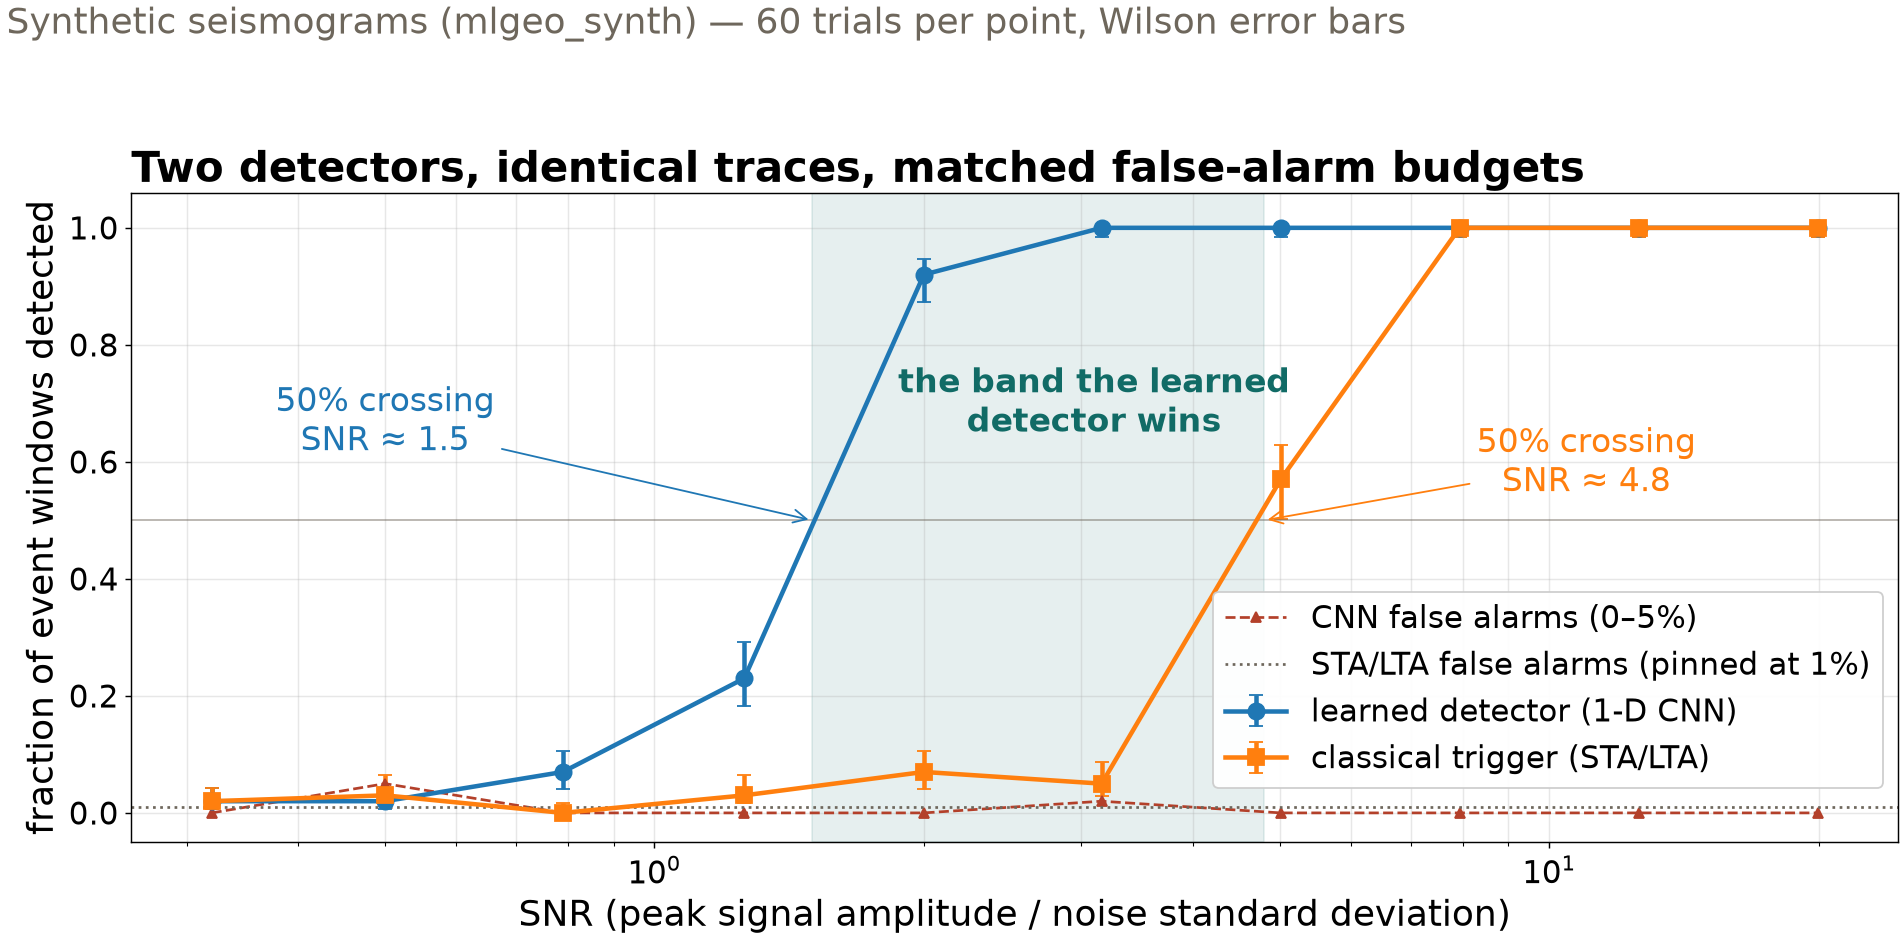
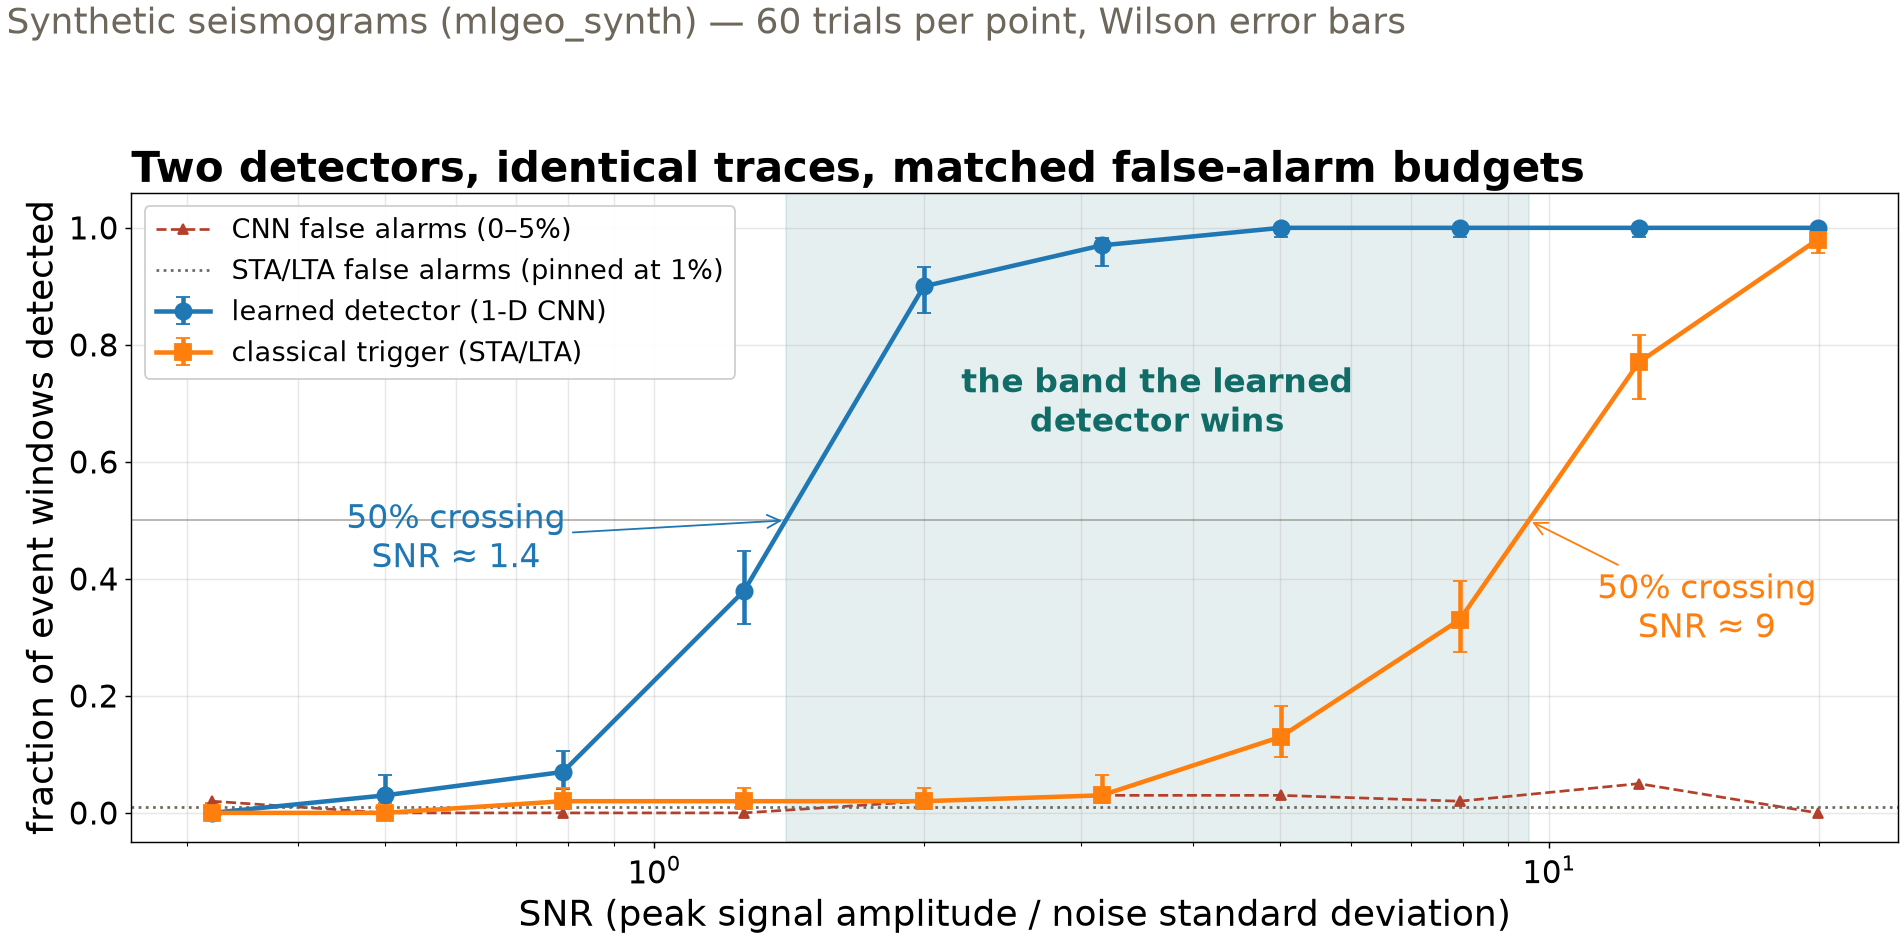
Lecture 22 follows the new 4.3: detection-floor figure from the new sweep (1.4 vs 9), miniPNW slide sourced to commit 4b4775c, task list updated

diff --git a/book/slides/2026/lec22_convolution_detector.html b/book/slides/2026/lec22_convolution_detector.html
@@ -608,10 +608,10 @@
 <h2>Reality check 1: same traces, classical opponent</h2>
 <img data-src="figs/mlgeo_4.3_CNN/detection_floor_slide.png" class="r-stretch">
 <div class="takeaway">
-<p>At matched ~1% false alarms: CNN crosses 50% at SNR ≈ 1.5, the trigger at ≈ 4.8. At SNR 2 the CNN catches 92% of events; STA/LTA catches 7%. Half a decade of SNR is the entire territory the learned detector wins.</p>
+<p>At ~1% false alarms the CNN crosses 50% at SNR ≈ 1.4, STA/LTA at ≈ 9. At SNR 2: 90% of events against 2%.</p>
 </div>
 <aside class="notes">
-<p>The design makes the comparison fair, and each choice is worth naming: identical traces for both detectors; the trigger’s threshold set from noise alone (99th percentile of 600 noise-only windows → 1% false alarms by construction, no peeking at events); CNN false alarms measured at 0–5%, comparable, so the detection curves can be read directly; 60 trials per point with binomial error bars. Three regimes: below SNR ~0.8 both detectors sit at their false-alarm floor — no algorithm rescues a signal buried in noise of the same color; above ~8 both detect everything, and there the classical trigger is the right engineering choice — free to train, impossible to drift. The shaded band is the CNN’s whole case. Whether that band matters is a scientific question, not an architectural one — in seismology it is where most small earthquakes live, which is why learned detectors displaced energy triggers in catalog building (Perol et al.; the pickers that followed). Also in the notebook: template matching, the classical method that beats both at low SNR when the source repeats — narrower question, different tool.</p>
+<p>The design makes the comparison fair, and each choice is worth naming: identical traces for both detectors; the trigger’s threshold set from noise alone (99th percentile of 600 noise-only windows → 1% false alarms by construction, no peeking at events); CNN false alarms measured at 0–5%, comparable, so the detection curves can be read directly; 60 trials per point with binomial error bars. Three regimes: below SNR ~0.8 both detectors sit at their false-alarm floor — no algorithm rescues a signal buried in noise of the same color; at SNR 20 both detect nearly everything, and there the classical trigger is the right engineering choice — free to train, impossible to drift. The shaded band is the CNN’s whole case. Whether that band matters is a scientific question, not an architectural one — in seismology it is where most small earthquakes live, which is why learned detectors displaced energy triggers in catalog building (Perol et al.; the pickers that followed). Also in the notebook: template matching, the classical method that beats both at low SNR when the source repeats — narrower question, different tool.</p>
 <style type="text/css">
         span.MJX_Assistive_MathML {
           position:absolute!important;
@@ -628,7 +628,7 @@
 <h2>Reality check 2: real waveforms, no retraining</h2>
 <img data-src="figs/mlgeo_4.3_CNN/synth_to_real_slide.png" class="r-stretch">
 <div class="takeaway">
-<p>87.9% on synthetic test → 46.8% on real miniPNW: chance. The network flags 93% of real <em>noise</em> windows — it responds to Pacific Northwest microseism noise, not to earthquakes. The gap is the measurement. Real data: miniPNW (Ni et al.&nbsp;2023).</p>
+<p>87.9% on synthetic test → 46.8% on real miniPNW, with 93% of real <em>noise</em> windows flagged. Measured 2026-11-20 (4.3 at commit 4b4775c).</p>
 </div>
 <aside class="notes">
 <p>The uncomfortable question the book insists on asking: every number so far came from the same generator that produced the training data — so score the unchanged detector on real labeled miniPNW waveforms (a few hundred earthquake windows, P pick 7 s in, plus matched pre-event noise windows; preprocessing mirrors training exactly, no threshold moved, no bandpass chosen to fix things afterward). Left panel: balanced accuracy collapses 41 points to chance. Right panel is the diagnosis: detection is <em>highest</em> (99%) in the lowest-SNR quartile — where the window is mostly noise — and the whole curve is indistinguishable from the 93% false-alarm line. The network is not responding to earthquakes at all: it learned “synthetic event vs the one synthetic noise model,” and real nonstationary, microseism-dominated noise resembles neither, so nearly everything triggers. Name the concept: <strong>distribution shift</strong> — train and deployment data drawn from different distributions — and this is Geirhos’s shortcut learning measured by us. The sentence to leave in the room: a model validated only on synthetic data has not been validated. Closing the gap takes real data on the training side (fine-tune on miniPNW, or physics-informed noise from 2.10) — that path is the notebook’s, and 4.6 continues it.</p>
@@ -865,16 +865,16 @@ Rules: run all code with `pixi run python`, on the CPU, with less than 10 minute
 <section id="now-measure-it-yourself-open-4.3" class="slide level2">
 <h2>Now measure it yourself — open 4.3</h2>
 <ol type="1">
-<li><code>pixi run jupyter lab</code> → <code>mlgeo_4.3_CNN.ipynb</code>: run the convolution and LeNet warm-up quickly</li>
+<li><code>mlgeo_4.3_CNN.ipynb</code>: sections 1–2, with the two Your-turn cells (a kernel by hand, the weights of a layer)</li>
 <li>Run the detection-floor sweep; estimate both 50% crossings from the printed table</li>
 <li>Retrain with only 2 epochs, rerun the sweep: whose floor moves — the CNN’s or STA/LTA’s, and why?</li>
-<li>Run the miniPNW reality check; report the balanced-accuracy gap as measured</li>
+<li>Real seismograms: the same detector on miniPNW is Homework_DL</li>
 </ol>
 <div class="dim">
 <p>PyTorch names live here: <code>nn.Conv1d</code>/<code>nn.Conv2d</code>, <code>nn.MaxPool1d</code>, <code>nn.AdaptiveAvgPool1d</code>, <code>torchinfo.summary</code> · HW-CML due today · Mon: sequence models (4.4), HW-DL assigned</p>
 </div>
 <aside class="notes">
-<p>Timing for the 80-minute block (10:00–11:20): pulse talks ~10 min, this deck ~20 min, guided notebook work ~40 min, synthesis ~10 min. If time is short, cut task 1 to a skim — tasks 2–4 are the payload. Task 3 is the conceptual trap worth circulating for: the CNN’s floor rises when undertrained, STA/LTA’s does not move because it has no parameters to undertrain — that is what makes it a stable baseline. Section 7 of the notebook (recoding the Rouet-Leduc tremor CNN from its published architecture table, verified by shape checks with <code>torchinfo.summary</code>) is the take-home skill for reading papers — flag it for project teams reproducing published models. Synthesis question to collect: for your project, what is your STA/LTA — the zero-parameter method your model must beat on identical data? That question is graded in check-in #2.</p>
+<p>Timing for the 80-minute block (10:00–11:20): pulse talks ~10 min, this deck ~20 min, guided notebook work ~40 min, synthesis ~10 min. If time is short, cut task 1 to a skim — tasks 2–4 are the payload. Task 3 is the conceptual trap worth circulating for: the CNN’s floor rises when undertrained, STA/LTA’s does not move because it has no parameters to undertrain — that is what makes it a stable baseline. Section 5 of the notebook (recoding the Rouet-Leduc tremor CNN from its published architecture table, verified by shape checks with <code>torchinfo.summary</code>) is the take-home skill for reading papers — flag it for project teams reproducing published models. Synthesis question to collect: for your project, what is your STA/LTA — the zero-parameter method your model must beat on identical data? That question is graded in check-in #2.</p>
 <style type="text/css">
         span.MJX_Assistive_MathML {
           position:absolute!important;

diff --git a/book/slides/2026/figscripts/lec22_detector_panels.py b/book/slides/2026/figscripts/lec22_detector_panels.py
@@ -1,7 +1,10 @@
 """Slide figures: the 1-D CNN detector's two reality checks (lecture 22).
 
 Two figures, re-plotted at lecture scale from the executed outputs of book
-notebook 4.3 (mlgeo_4.3_CNN.ipynb, sections 5.4 and 6). The arrays below are
+notebook 4.3 (mlgeo_4.3_CNN.ipynb). Figure 1: section 4.4 of the notebook at commit
+c13d6d9 (noise color and dominant frequency drawn per window, mlgeo_synth 2.1.0).
+Figure 2: section 6 of the notebook at commit 4b4775c (2026-11-20); that section
+was later cut, and real data moved to Homework_DL. The arrays below are
 copied verbatim from the notebook's printed sweep table and miniPNW summary;
 retraining the detector here would produce a figure inconsistent with the
 book, so the executed numbers are the source of truth. If the notebook is
@@ -29,12 +32,21 @@ plt.rcParams.update({
 FIGS = Path(__file__).resolve().parent.parent / "figs" / "mlgeo_4.3_CNN"
 FIGS.mkdir(parents=True, exist_ok=True)
 
-# ---- executed sweep table, notebook 4.3 section 5.4 (60 trials per point) ----
+# ---- executed sweep table, notebook 4.3 section 4.4 (60 trials per point) ----
 snrs = np.array([0.32, 0.50, 0.79, 1.26, 2.00, 3.16, 5.01, 7.94, 12.59, 19.95])
-cnn_detect = np.array([0.02, 0.02, 0.07, 0.23, 0.92, 1.00, 1.00, 1.00, 1.00, 1.00])
-cnn_fa = np.array([0.00, 0.05, 0.00, 0.00, 0.00, 0.02, 0.00, 0.00, 0.00, 0.00])
-sta_detect = np.array([0.02, 0.03, 0.00, 0.03, 0.07, 0.05, 0.57, 1.00, 1.00, 1.00])
+cnn_detect = np.array([0.00, 0.03, 0.07, 0.38, 0.90, 0.97, 1.00, 1.00, 1.00, 1.00])
+cnn_fa = np.array([0.02, 0.00, 0.00, 0.00, 0.02, 0.03, 0.03, 0.02, 0.05, 0.00])
+sta_detect = np.array([0.00, 0.00, 0.02, 0.02, 0.02, 0.03, 0.13, 0.33, 0.77, 0.98])
 N_PER = 60
+
+
+def crossing(p):
+    """SNR where a detection curve crosses 0.5 (linear interpolation in log SNR)."""
+    return float(10 ** np.interp(0.5, p, np.log10(snrs)))
+
+
+x_cnn, x_sta = crossing(cnn_detect), crossing(sta_detect)
+print(f"50% crossings: CNN {x_cnn:.2f}, STA/LTA {x_sta:.2f}")
 
 
 def wilson(p, n, z=1.0):
@@ -57,13 +69,13 @@ ax.plot(snrs, cnn_fa, ls="--", lw=1.5, marker="^", ms=6, color="#b3402a",
 ax.axhline(0.01, ls=":", lw=1.5, color="#6e675c",
            label="STA/LTA false alarms (pinned at 1%)")
 ax.axhline(0.5, color="#6e675c", lw=1, alpha=0.5)
-ax.axvspan(1.5, 4.8, color="#116b66", alpha=0.10)
-ax.text(3.1, 0.70, "the band the learned\ndetector wins", ha="center", va="center",
+ax.axvspan(x_cnn, x_sta, color="#116b66", alpha=0.10)
+ax.text(np.sqrt(x_cnn * x_sta), 0.70, "the band the learned\ndetector wins", ha="center", va="center",
         fontsize=18, fontweight="bold", color="#116b66")
-ax.annotate("50% crossing\nSNR ≈ 1.5", xy=(1.5, 0.5), xytext=(0.5, 0.62),
+ax.annotate(f"50% crossing\nSNR ≈ {x_cnn:.1f}", xy=(x_cnn, 0.5), xytext=(0.6, 0.42),
             fontsize=18, color="#1f77b4", ha="center",
             arrowprops=dict(arrowstyle="->", color="#1f77b4"))
-ax.annotate("50% crossing\nSNR ≈ 4.8", xy=(4.8, 0.5), xytext=(11.0, 0.55),
+ax.annotate(f"50% crossing\nSNR ≈ {x_sta:.0f}", xy=(x_sta, 0.5), xytext=(15.0, 0.30),
             fontsize=18, color="#ff7f0e", ha="center",
             arrowprops=dict(arrowstyle="->", color="#ff7f0e"))
 ax.set_xscale("log")
@@ -71,7 +83,7 @@ ax.set_ylim(-0.05, 1.06)
 ax.set_xlabel("SNR (peak signal amplitude / noise standard deviation)")
 ax.set_ylabel("fraction of event windows detected")
 ax.set_title("Two detectors, identical traces, matched false-alarm budgets", loc="left")
-ax.legend(loc="lower right", bbox_to_anchor=(1.0, 0.06), framealpha=0.95)
+ax.legend(loc="upper left", framealpha=0.95, fontsize=15)
 ax.grid(alpha=0.3, which="both")
 fig.suptitle("Synthetic seismograms (mlgeo_synth) — 60 trials per point, Wilson error bars",
              x=0.01, ha="left", fontsize=20, fontweight="normal", color="#6e675c")
